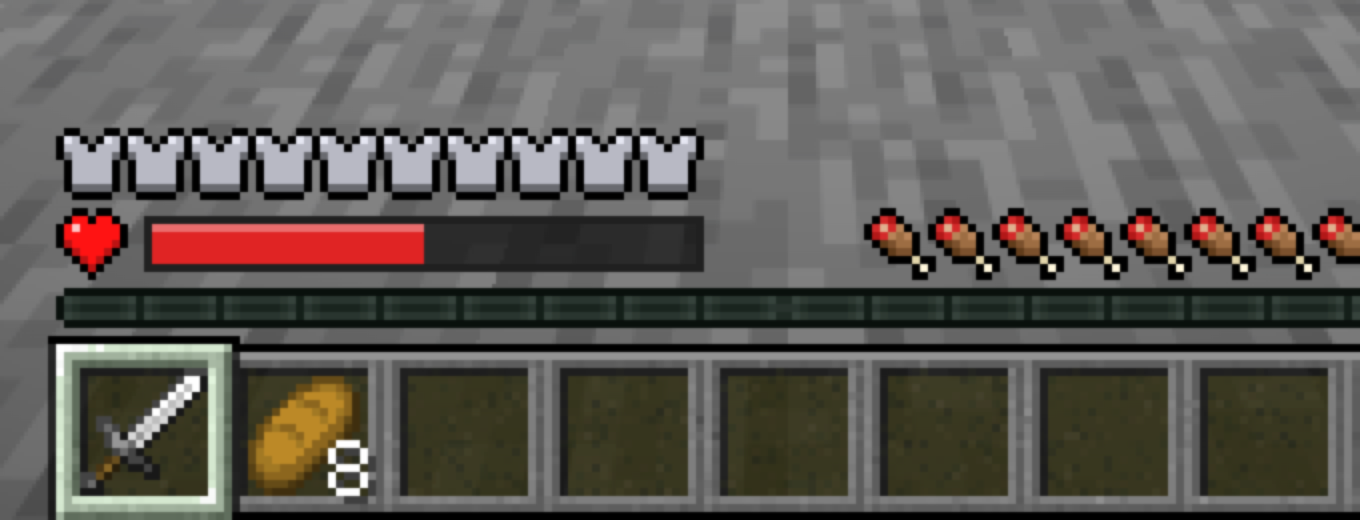
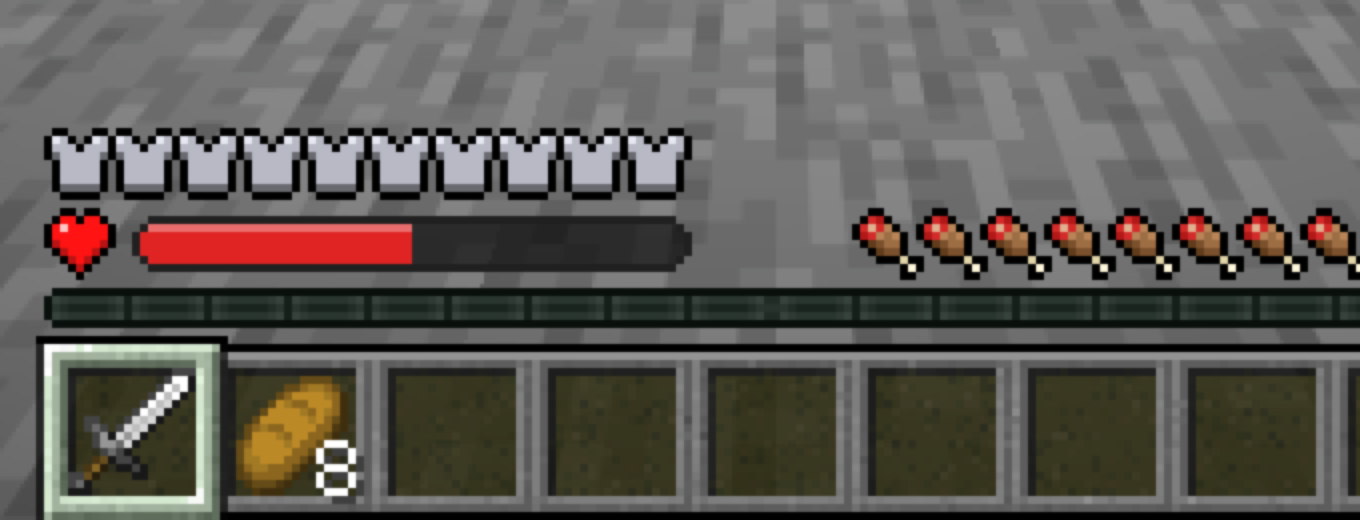
Health bar has rounded corners (D204)

diff --git a/mods/immortal-cultivation/src/client/java/io/github/huydangtruong/immortalcultivation/client/LayeredHeartsHud.java b/mods/immortal-cultivation/src/client/java/io/github/huydangtruong/immortalcultivation/client/LayeredHeartsHud.java
@@ -94,17 +94,48 @@ public final class LayeredHeartsHud {
 		int w = HealthBarRules.BAR_WIDTH;
 		int h = HealthBarRules.BAR_HEIGHT;
 		int innerW = w - 2;
-		g.fill(bx, by, bx + w, by + h, 0xA0000000);
+		Round r = new Round(bx, by, w, h);
+		r.fill(g, bx, bx + w, by, by + h, 0xA0000000);
 		int filled = HealthBarRules.fillPixels(p.getHealth(), max, innerW);
 		if (filled > 0) {
-			g.fill(bx + 1, by + 1, bx + 1 + filled, by + h - 1, color);
-			g.fill(bx + 1, by + 1, bx + 1 + filled, by + 2, lighten(color)); // a light top edge, like a glossy bar
+			r.fill(g, bx + 1, bx + 1 + filled, by + 1, by + h - 1, color);
+			r.fill(g, bx + 1, bx + 1 + filled, by + 1, by + 2, lighten(color)); // a light top edge, like a glossy bar
 		}
 		int gold = HealthBarRules.absorptionPixels(p.getAbsorptionAmount(), max, innerW);
 		if (gold > 0) {
-			g.fill(bx + 1, by + 1, bx + 1 + gold, by + 1 + HealthBarRules.ABSORPTION_ROWS, HealthBarRules.ABSORPTION_COLOR);
+			r.fill(g, bx + 1, bx + 1 + gold, by + 1, by + 1 + HealthBarRules.ABSORPTION_ROWS, HealthBarRules.ABSORPTION_COLOR);
 		}
-		g.outline(bx, by, w, h, 0xFF202020);
+		r.outline(g, 0xFF202020);
+	}
+
+	/** D204: the bar's rounded shape (corner radius 2 px): fills are clipped to it and the outline follows it. */
+	private record Round(int x, int y, int w, int h) {
+		/** How many pixels row yy is cut in on each side (outline included). */
+		private int inset(int yy) {
+			int d = Math.min(yy - y, y + h - 1 - yy);
+			return d <= 0 ? 2 : d == 1 ? 1 : 0;
+		}
+
+		void fill(GuiGraphicsExtractor g, int x0, int x1, int y0, int y1, int color) {
+			for (int yy = y0; yy < y1; yy++) {
+				int in = inset(yy);
+				int a = Math.max(x0, x + in), b = Math.min(x1, x + w - in);
+				if (a < b) {
+					g.fill(a, yy, b, yy + 1, color);
+				}
+			}
+		}
+
+		void outline(GuiGraphicsExtractor g, int color) {
+			g.fill(x + 2, y, x + w - 2, y + 1, color);
+			g.fill(x + 2, y + h - 1, x + w - 2, y + h, color);
+			g.fill(x, y + 2, x + 1, y + h - 2, color);
+			g.fill(x + w - 1, y + 2, x + w, y + h - 2, color);
+			for (int yy : new int[] {y + 1, y + h - 2}) {
+				g.fill(x + 1, yy, x + 2, yy + 1, color);
+				g.fill(x + w - 2, yy, x + w - 1, yy + 1, color);
+			}
+		}
 	}
 
 	/** Layer 0 and every status heart use the vanilla sprites; the other layers our coloured ones. */

diff --git a/docs/system/03-status.md b/docs/system/03-status.md
@@ -48,7 +48,7 @@ A fresh agent reads, in order: this file → [AGENTS.md](../../AGENTS.md) → [w
 | 0.40.0 contains | Solar Lance and Fireball burn reset the real vanilla damage cooldown (D183). God Slayer takes its own 5th special-event slot after every 2nd Deadly Treasure (D184). A grasped raider leaves its raid and never joins another (D185). /admin: Give full netherite button and Elixirs tab to lower or raise each bonus (D186). Deadly Treasure purple top bar with coordinates, guards left, time left, and a warning 2 minutes before it vanishes (D187). Area server tests green. |
 | 0.41.0 contains | D188 hold-R technique wheel (Attack/Defense/Movement/Allies, click assigns or swaps slots, red text when the slot cools). D189 Crystal Mayhem gives a fresh 20 shards with clusters after the cooldown. D190 natural illagers never join raids; raid mobs glow. D191 grasped patrol vindicators follow and fight at night. D192 vexes of a grasped evoker are on the owner's side. Area tests green; not tried in a real game. |
 | 0.42.0 contains | D193 wheel opens from the cross on the lowest ready slot, slot row on top, only the edited slot's technique darkened, scroll between slots. D194 a grasped evoker's vexes leave other players (outside Death Match) and villagers alone. D195 grasped mobs never stop the owner sleeping. D196 the wheel stays open after a pick until R is let go. D197 a working illusion stores what it carries before it vanishes. D198 Call and Call all reach grasped mobs in other dimensions and unloaded chunks. Area tests green; not tried in a real game. |
-| On `main`, not released | Nothing. Branch `feat/P-070-leap-distance` has D199 (Quantum Leap charge bar shows the block distance), D200 (villagers and the wandering trader do not fear grasped mobs), D201 (Solar Lance slows and pushes back a little), D202 (Soul Grasp icon = sheep face with spiral eye) and D203 (health row = one heart + progress bar as wide as the armour bar; plan P-071, screenshots `docs/plans/P-071-*.png`), not merged |
+| On `main`, not released | Nothing. Branch `feat/P-070-leap-distance` has D199 (Quantum Leap charge bar shows the block distance), D200 (villagers and the wandering trader do not fear grasped mobs), D201 (Solar Lance slows and pushes back a little), D202 (Soul Grasp icon = sheep face with spiral eye) and D203 (health row = one heart + progress bar as wide as the armour bar; plan P-071, screenshots `docs/plans/P-071-*.png`) and D204 (rounded health bar), not merged |
 
 Release steps: [workflow/release.md](../workflow/release.md). Release **only when Huy says so**.
 

diff --git a/docs/system/01-decisions.md b/docs/system/01-decisions.md
@@ -205,3 +205,4 @@
 | D201 | Solar Lance làm chậm và đẩy lùi một chút | Huy (2026-11-22): tia Solar Lance đi qua ai thì người đó **bị chậm (Slowness II, 1,5 giây, làm mới mỗi lần trúng nên hết ngay sau khi tia rời đi)** và **bị đẩy lùi một chút theo hướng tia**, như tia nhiệt của Superman đẩy người ra sau một chút (mỗi nhát +0,35 tốc độ ngang và một chút nâng lên, khoảng 1 block trên đất phẳng). Mục tiêu giữ nguyên như cũ (player chỉ khi luật PvP cho phép). Boss vẫn bị chậm, còn lực đẩy nhân với (1 − kháng đẩy lùi) nên boss kháng hoàn toàn thì không bị đẩy. Mã: `LanceRules.push`, `Lance.fire` |
 | D202 | Icon Soul Grasp là mặt cừu | Huy (2026-11-22): icon chiêu Soul Grasp (và focus item) đổi thành **mặt cừu trắng nhìn sang trái, chỉ thấy nửa mặt bên phải**, sừng nâu nhạt cuộn, **mắt có vòng xoáy thôi miên** (tím và đen). Vẽ lại bằng `tools/make_technique_sprites.py` (16x16, viền tối) |
 | D203 | Thanh máu: một trái tim + thanh tiến độ | Huy (2026-11-22): thanh máu luôn là **một trái tim** ở bên trái và **một thanh tiến độ** ở bên phải, ở mọi mức máu tối đa. Trái tim thể hiện **cấp máu (layer)**: đỏ vanilla cho 20 tim đầu, rồi màu layer 1-14 như D36-D38 (tim lớp cao nhất mà máu hiện tại chạm tới). Thanh = máu hiện tại / máu tối đa, tô cùng màu layer, nền tối có viền như các thanh khác. **Tim + khoảng hở + thanh rộng đúng bằng thanh giáp (81 px)**; thanh giáp nằm ngay trên hàng máu trong mọi trường hợp (kể cả có hấp thụ). Độc, héo, đóng băng đổi tim sang tim vanilla tương ứng và nhuộm màu thanh; hardcore dùng tim hardcore; máu thấp (≤ 2 tim) tim rung nhẹ. Hấp thụ (absorption) là **vạch vàng mỏng dọc mép trên của thanh**, độ dài = hấp thụ / máu tối đa, không thêm hàng. Không có chữ số. Mã: `HealthBarRules`, `LayeredHeartsHud` |
+| D204 | Thanh máu bo góc | Huy (2026-11-22): viền thanh máu (D203) **bo góc** (bán kính 2 px); nền, phần máu, vạch vàng hấp thụ đều theo đường bo. Mã: `LayeredHeartsHud.Round` |
